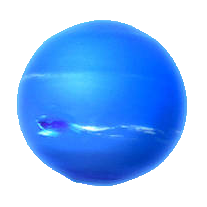
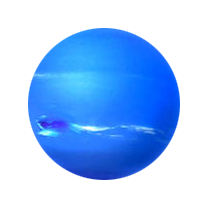
Olivia: changed planet images; Jandro: css updates and graphics

Changed region(s): [[0.058, 0.087, 0.9275, 0.8986]]

diff --git a/styles.css b/styles.css
@@ -4,22 +4,44 @@
 }
 
 @font-face {
+  font-family: moonBold;
+  src: url(./assets/fonts/Moon2.0-Bold.otf);
+}
+
+@font-face {
   font-family: moonFont;
   src: url(./assets/fonts/Moon2.0-Regular.otf);
-  /* src: url(./assets/fonts/Moon2.0-Regular.otf) format('regular'),
-       url(./assets/fonts/Moon2.0-Bold.otf) format('bold'),
-       url('./assets/fonts/Moon2.0-Light.otf) format('light'); */
+  /* src: url(./assets/fonts/Moon2.0-Regular.otf) format('otf'),
+       url(./assets/fonts/Moon2.0-Bold.otf) format('otf'),
+       url(./assets/fonts/Moon2.0-Light.otf) format('otf'); */
+}
+#outer-boundary {
+  padding-top: 50px;
+  padding-left: 50px;
+  padding-right:50px;
+  padding-bottom: 100px
+}
+
+header {
+  border-style: solid;
+  box-shadow: 0 0 50px 0 #9ccddc;
+  transition: 0.3s;
+  border-radius: 10px;
+  padding: 10px;
+}
+.boundary {
+  padding-top:50px;
+  padding-bottom:50px
 }
 
 h1 {
-  padding-top: -1.5%;
   padding-bottom: 5%;
   color: #5591a9;
   font-family: rocketWildness;
-  font-size: 80px;
   font-size: 5vw;
   letter-spacing: 4px;
   text-align: center;
+
 }
 
 body {
@@ -31,14 +53,16 @@ div.column.left {
   background-color: black;
   padding-left: 3%;
   padding-right: 1.5%;
-  padding-top: 2%;
+  padding-top: 3%;
   padding-bottom: 60%;
   border-style: solid;
   border-radius: 15px 15px 15px 15px;
-  box-shadow: 0 0 20px 0 #ced7e0;
+  box-shadow: 0 0 20px 0 #9ccddc;
   max-height: 10px;
   font-family: moonFont;
   overflow-y:scroll;
+  transition: all 0.5s ease 0s;
+  font-size: 1vw;
 }
 
 /* #scroll-issues {
@@ -51,6 +75,15 @@ div.column.left {
 
 .column.left p {
   color: white;
+}
+
+#featured-title {
+  font-family: moonBold;
+  font-size: larger
+}
+
+#featured-explain-scroll {
+  padding-right:5px
 }
 
 #search-title {
@@ -67,9 +100,9 @@ div.column.left {
 
 .right {
   display: grid;
+  justify-content: right;
   place-items: center;
   padding-left: 6%;
-  padding-right: 3%;
   padding-top: 2%;
   padding-bottom: 0%;
   width: 60%;
@@ -93,8 +126,9 @@ div.column.left {
     align-items: center;
   }
   h1 {
-    font-size: 45px;
+    font-size: 5vw;
   }
+
 }
 
 .planet-list-image {
@@ -117,7 +151,7 @@ div.column.left {
   }
 
 #grid {
-  box-shadow: 0 0px 40px 0 #ced7e0; 
+  box-shadow: 0 0px 40px 0 #9ccddc; 
   transition: 0.3s;
   border-radius: 10px;
   padding: 30px;
@@ -129,19 +163,97 @@ div.column.left {
 }
 
 .grid_image {
-  border-radius: 10px 10px 0 0;
   padding: 10px;
   max-width: 100px;
   max-height: 100px;
   margin-top: 20px;
 }
 
-#main_image {
-  box-shadow: 0 0 20px 0 #ced7e0;
+.grid_image {
   border-radius: 10px;
-  margin-top: 20px;
+}
+
+#main_image {
+  box-shadow: 0 0 20px 0 #9ccddc;
+  border-radius: 10px;
+  margin-top: -1%;
 }
 
 #error-message {
   color: red;
+  font-family: moonBold;
+  letter-spacing: 1px;
+}
+
+#error-image {
+  image-rendering: optimizeQuality;
+}
+
+.button {
+  background-color: black;
+  background-image: url(./images/star-gif.gif);
+  padding: 12px 28px;
+  display: inline-block;
+  text-decoration: none;
+  font-size:16px;
+  font-family:moonBold;
+  border-radius: 5px;
+  color: #9ccddc;
+  cursor:pointer;
+  transition: transform 3000ms ease;
+}
+
+.button:hover {
+  transform: scale(.75)
+}
+
+.input-text {
+  background-color: black;
+  color:#9ccddc;
+  border-radius: 5px;
+  display: inline-block;
+  padding: 12px 12px;
+  font-size: 16px;
+  
+}
+
+@keyframes slideInFromAbove {
+  0% {
+    transform: translateY(-100%);
+}
+100% {
+    transform: translateY(0);
+}
+}
+
+h1 {  
+  animation-duration: 3s; /* the duration of the animation */
+  animation-timing-function: ease-out; /* how the animation will behave */
+  animation-delay: 0s; /* how long to delay the animation from starting */
+  animation-iteration-count: 1; /* how many times the animation will play */
+  animation-name: slideInFromAbove; /* the name of the animation we defined above */
+  
+  background:none;
+}
+
+#featured-source {
+  color:lightskyblue;
+  font-family: moonBold;
+  letter-spacing: 1px;
+}
+
+.planet-list-image {
+  transition: transform 500ms ease;
+}
+
+.planet-list-image:hover {
+  transform: scale(1.5);
+}
+
+#bottom-boundary {
+  /* position: absolute;
+  width: 100%;
+  height: 50px;
+  bottom: 0; */
+  padding: 50px 50px 50px 50px
 }

diff --git a/index.html b/index.html
@@ -7,55 +7,64 @@
     <title>Arecibo 2.0</title>
 </head>
 
-<header class = "row" id = "header-row">
-  <h1>Arecibo Observatory 2.0</h1>
-</header>
+<body id="outer-boundary">
+  <header class = "row" id = "header-row">
+    <h1>Arecibo Observatory 2.0</h1>
+  </header>
 
-<body id ="content-body">
-  <nav id="planet-list">
-    
-  </nav>
+  <div class="boundary"></div>
 
-  <div class = "row">
-      <div class = "column left">
-          <form id="search-form">
-              <h3 id = "search-title">Search for a space image</h3>
-                  <input type="text" name="search_value" value="" placeholder="Example: Pluto" class="input-text"/>
-              <br/>
-              <br>
-              <input type="submit" name="submit" value="Search" class="submit"/> 
-              <br/>
-          </form>
-
-          <div>
-            <p id="error-message"></p>
-            <img id="error-image" src="">
-          </div>
-
-          <div>
-            <br>
-            <p id="featured-title"></p>
-            <br>
-            <p id="featured-explain" class="scroll"></p>
-            <br>
-            <a id="featured-source" class="scroll" href=""></a>
-          </div>
+  <body id ="content-body">
+    <nav id="planet-list">
       
+    </nav>
 
-         
-      </div>
+    <div class = "row">
+        <div class = "column left">
+            <form id="search-form">
+                <h3 id = "search-title">Search the cosmos</h3>
+                    <input type="text" name="search_value" value="" placeholder="Example: Pluto" class="input-text"/>
+                <br/>
+                <br>
+                <br>
+                <br>
+                <input type="submit" name="submit" value="explore" class="button"/> 
+                <br/>
+            </form>
 
-      <div class = "column right">
+            <div>
+              <p id="error-message"></p>
+              <img id="error-image" src="" style="display:none" width="100%" height="120%">
+            </div>
+
+            <div>
+              <br>
+              <p id="featured-title"></p>
+              <br>
+              <p id="featured-explain" class="scroll"></p>
+              <br>
+              <a id="featured-source" class="scroll" href=""></a>
+            </div>
+        
+
+          
+        </div>
+
+        <div class = "column right">
           <div id="featured_image">
-              <img id="main_image" src="" width="100%" height="120%">
+            <img id="main_image" src="" width="100%" height="120%">
           </div>
           <div id="grid" class="card" style="display:none">
             <!-- this is where grid images will appear -->
-            </div>
           </div>
+        </div>
       </div>
-    </div>
-
-  </div>
+  </body>
 </body>
+<div id=bottom-boundary>
+  <footer id="footer">
+   .
+  </footer>
+</div>
+
 </html>

diff --git a/src/index.js b/src/index.js
@@ -13,12 +13,19 @@ const gridImages = document.querySelector('grid_image')
 const mercuryIcon = document.querySelector('#mercury')
 const pError = document.querySelector('#error-message')
 const imageError = document.querySelector('#error-image')
+const headerText = document.querySelector("#header-row > h1")
 
 // Event Listeners
 form.addEventListener('submit', handleSubmit)
 
 function showHide() {
-    grid.style.display = "block"
+    // if (pError.value = "Please check your spelling or try another search query.") {
+    //     imageError.style.display = "block"
+    //     // grid.style.display = "block"
+    // } else { // sometimes works, sometimes doesn't.
+    //     // imageError.style.display = "block"
+        grid.style.display = "block" 
+    // }
 }
 
 // fetches planet icon images and details from db.json file 
@@ -34,7 +41,7 @@ function renderImageIcons(planets) {
         img.src = planet['image-icon'] 
         img.className = "planet-list-image"
         planetNav.appendChild(img)
-        img.addEventListener('mouseover', () => renderImageIconDetails(planet))
+        img.addEventListener('click', () => renderImageIconDetails(planet))
     })
 }
 
@@ -47,7 +54,6 @@ function renderImageIconDetails(planet) {
     mainSource.href = planet.wiki
     mainSource.textContent = "Taken from this Wikipedia source"
 }
-
 
 // https://api.nasa.gov/ --> scroll down to APOD ('Astronomy Pic Of the Day'), same as HEROKU's. Generates random image of the day
 // fetches astronomy picture of the day 
@@ -148,12 +154,12 @@ function renderGridImages(items) {
 
         grid.appendChild(img)
 
-        img.addEventListener('click', () => handleClick(item))
+        img.addEventListener('mouseover', () => handleHover(item))
     })
 }
 
 // When user clicks on an image in the "grid" div, render that image and it's respective details in the "featured image" div
-function handleClick(item) {
+function handleHover(item) {
     // console.log(item)
     renderImageDetails(item)
     
@@ -161,6 +167,9 @@ function handleClick(item) {
 
 // Shows the user an error if they try to search for something that is unvailable or has a typo 
 function renderError() {
-    imageError.src = "./images/gotg.png"
+    imageError.src = "./images/gotg.gif"
     pError.textContent = `Please check your spelling or try another search query.`
 }
+
+
+// Don't forget to run: `json-server --watch db.json`
